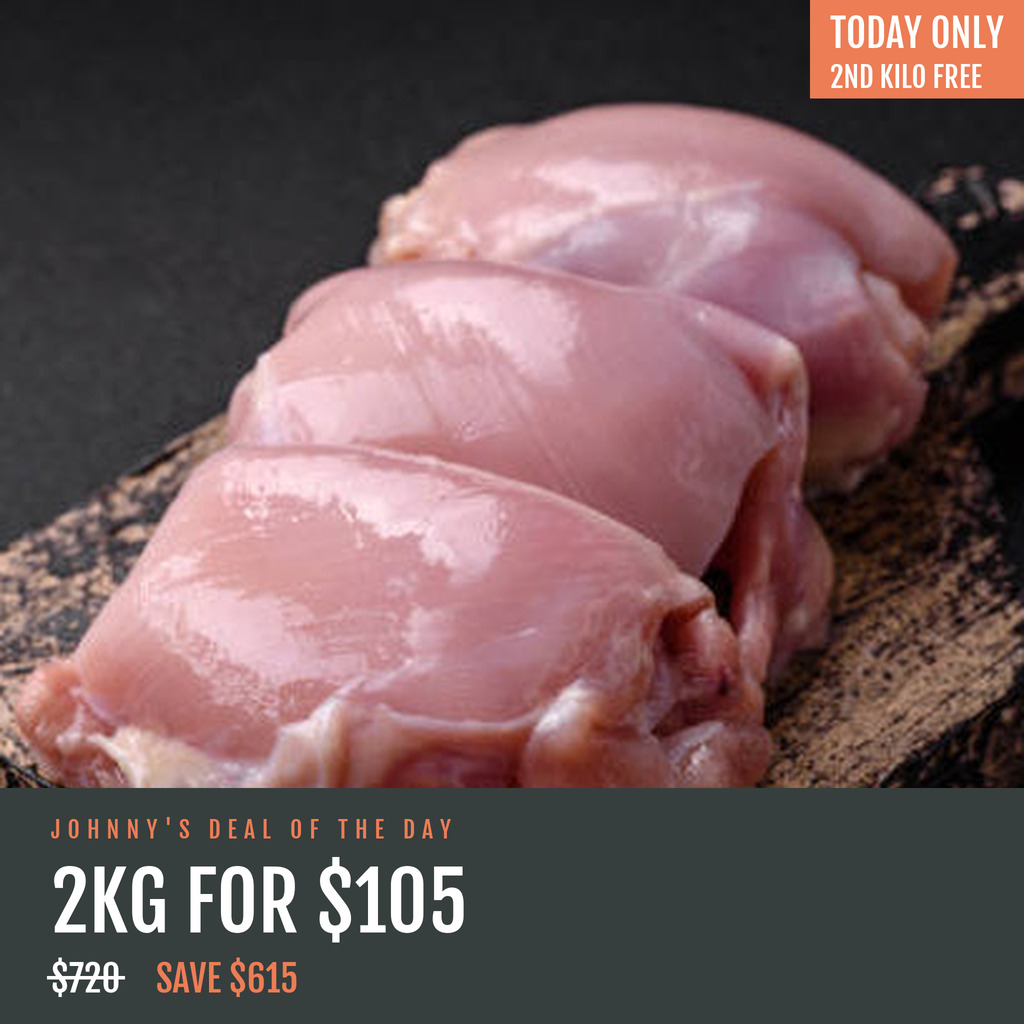
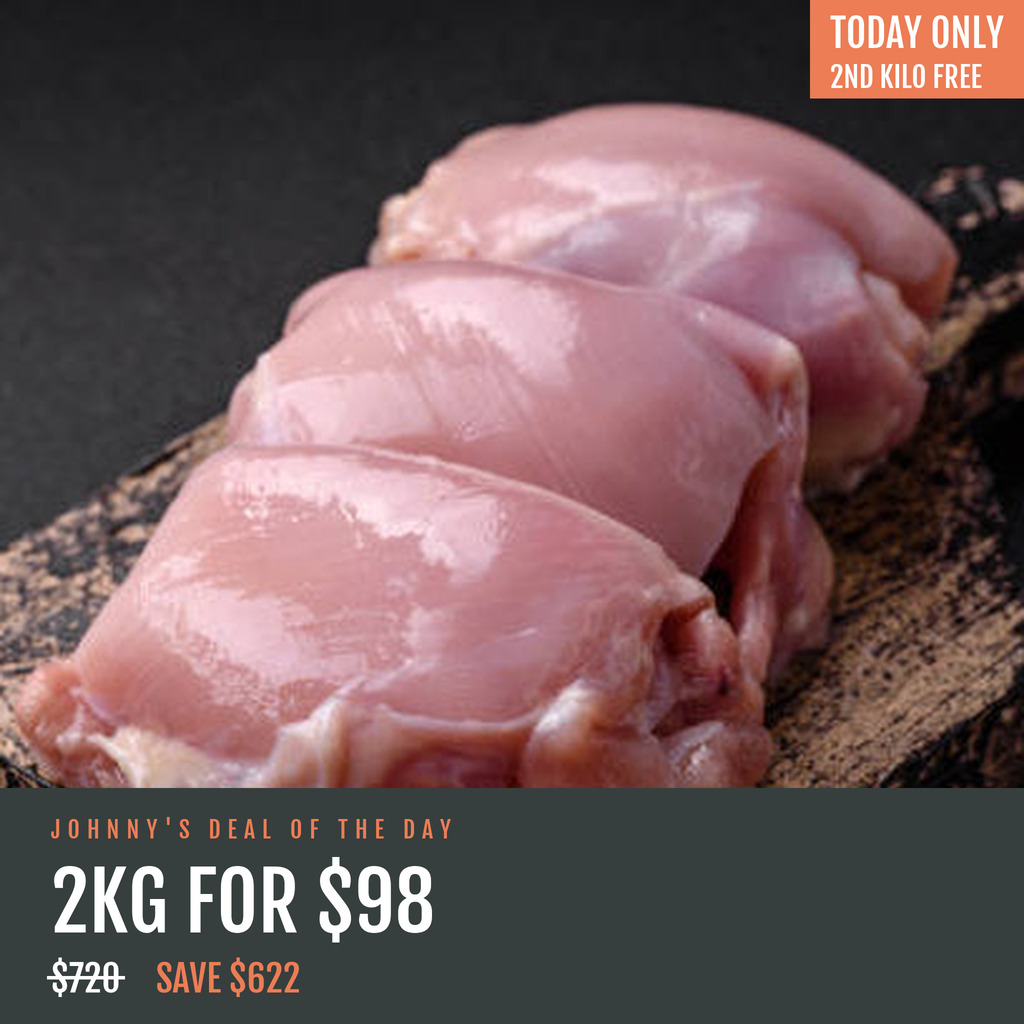
Update: David's 28 Aug review actioned
Price and spec corrections applied on the picanha, salmon ladder, Weekly
Essentials and chicken thighs. Seven ribeye and striploin slots flagged
pending replacement per his Slack note.

Changed region(s): [[0.3438, 0.8438, 0.4688, 0.9062], [0.25, 0.9375, 0.3125, 0.9688]]

diff --git a/steak-king/johnnys-deal-planner.html b/steak-king/johnnys-deal-planner.html
@@ -445,31 +445,33 @@ const PLAN = {
     ],
     days: {
       '2026-09-01':{
-        id:'sep-picanha-open', title:'The Whole Picanha for $740', mech:'Price Drop · Single SKU', tag:'proven',
+        id:'sep-picanha-open', title:'The Whole Picanha, 2.1kg for $948', mech:'Price Drop · Single SKU', tag:'proven',
         img:IMG('files/M9_Picanhas.png'),
-        price:'$740', vs:'Chilled Wagyu M8-9 Rump Cap ~2kg · RRP $2,256 · 67% off', margin:'52% margin',
-        lines:[['Day target','$135,935'],['Stock','296 units.']],
+        price:'$948', vs:'Chilled Wagyu M8-9 Rump Cap 2.1kg · RRP $2,256 · 57% off', margin:'39% margin',
+        lines:[['Day target','$135,935'],['Stock','295 units.'],['From David','28 Aug: 2.1kg at $948.']],
+        flag:'David set this on 28 Aug and he was right to. This SKU\'s unit cost moved from $355 to $580 between the 27th and the 28th, so the $740 I had here was a 22% margin, not 52%. At $948 it is 39%, still under the 45% floor, which would need $1,055. His call, but worth putting back to him.',
         why:'Day one off the back of a $2.59m Emporium. The June read is the warning: the six days after that sale ran $66,215 a day with no deal engine, 29% below its own BAU, while the six after July ran $92,164 with deals on. So the month opens on the highest-confidence single-SKU deal in the library. Picanha did 4.4x on 22 Aug, it needs no explaining, and one item at one price is the right ask of a list that has just spent.',
-        build:{desc:{hook:"TODAY ONLY: A WHOLE WAGYU PICANHA, 2KG, FOR $740",
-          sub:"Normally $2,256. That is 67% off. Australian M8-9 wagyu, and the chimichurri is free in the box.",
-          get:["One whole rump cap, 1.9 to 2.1kg, fat cap left on",
+        build:{desc:{hook:"TODAY ONLY: A WHOLE WAGYU PICANHA, 2.1KG, FOR $948",
+          sub:"Normally $2,256. That is 57% off. Australian M8-9 wagyu, and the chimichurri is free in the box.",
+          get:["One whole rump cap, 2.1kg, fat cap left on",
                "M8-9 Australian wagyu, chilled not frozen",
                "A jar of chimichurri, free",
                "Serves 6 to 8",
-               "Worth $2,256 at RRP. You keep $1,516."],
+               "Worth $2,256 at RRP. You keep $1,308."],
           noteTitle:"Johnny on the picanha",
           note:["I have been buying picanha for thirty years and it is still the cut I would take home if I could only take one.",
                 "It is the cap off the top of the rump, and it comes with a fat cap that most butchers trim off and throw away. Do not let them. That fat is the whole point. It melts down through the meat while it cooks and seasons the thing for you.",
-                "M8-9 is about as marbled as picanha gets before it stops being dinner and starts being a dessert. I buy it by the container, straight from the producer, nobody in between. That is the only reason a $2,256 cut can sit on the site at $740.",
+                "M8-9 is about as marbled as picanha gets before it stops being dinner and starts being a dessert. I buy it by the container, straight from the producer, nobody in between. That is the only reason a $2,256 cut can sit on the site at $948.",
                 "Score the fat in a diamond. Salt it like you mean it. Fat side down first, then turn it. Carve across the grain, never with it, and let it rest before you do."],
           close:"No code needed. Ends midnight, then it is back to $2,256. Free delivery over $1,000, and order before 1:30pm for tomorrow."},
-          source:'Chilled Wagyu M8-9 Rump Cap', banner:["67% OFF the Whole M8-9 Picanha"], clone:'Whole Wagyu M8-9 Picanha ~2kg — $740 Today Only', price:'$740', compare:'$2,256'}
+          source:'Chilled Wagyu M8-9 Rump Cap', banner:["57% OFF the Whole 2.1kg Picanha"], clone:'Whole Wagyu M8-9 Picanha 2.1kg — $948 Today Only', price:'$948', compare:'$2,256'}
       },
       '2026-09-02':{
         id:'sep-angus-ribeye-3kg', title:'Buy 2kg of Angus Ribeye, Get the Third Kilo Free', mech:'Buy 2, Get 1 Free', tag:'proven',
         img:IMG('files/shutterstock_2594441313_1_cb96eb05-edbe-44c6-8180-3302b5e82c48.jpg'),
         price:'3kg for $698', vs:'Chilled Black Angus M1-2 Ribeye 1kg · RRP $2,235 · 68% off', margin:'52% margin',
         lines:[['Day target','$124,088'],['Stock','3,787 units. Deepest stock of any deal this month.'],['Mechanic maths','2kg at $349/kg = $698, third kilo free. Confirm $349 still sits at or under the everyday price on the day.']],
+        flag:'PENDING REPLACEMENT. Not commented on directly, but David's Slack note on 28 Aug is broader than his card comments: \"I'd like to move away from using ribeye / striploin. Especially wagyu.\" That takes this one out too.',
         why:'The highest multiple any single-cut deal has produced (12.9x on 18 Aug at $948). The margin rule reprices it to $698, which is the point of the rule: at $948 it was running a 63% margin, and that is money left on the table when the job is filling a soft week. Cost is $111 a kilo, so this is the deepest headline available on a cut the list already knows.',
         build:{desc:{hook:"BUY 2KG OF ANGUS RIBEYE, GET THE THIRD KILO FREE",
           sub:"3kg for $698. Normally $2,235. That is 68% off.",
@@ -491,7 +493,7 @@ const PLAN = {
         id:'sep-freezer-run', title:'The Freezer Run — 4kg for $328', mech:'Fixed Bundle · Affinity', tag:'new',
         img:IMG('files/RSAngusMince.png'),
         price:'4kg for $328', vs:'Mince + thighs + supreme + tenders · RRP $1,145 · 71% off', margin:'52% margin',
-        lines:[['Day target','$118,476'],['Stock','333 sets. Tenders are the constraint.']],
+        lines:[['Day target','$118,476'],['Stock','322 sets. Tenders are the constraint.'],['David asked about cost','He read cost as $90/kg, which would make 4kg cost $360 and lose money at $328. That $90 is the mince alone. Live unit costs are mince $90, thighs $25, supreme $24, tenders $18, so the box costs $157 and $328 is a 52% margin. Flagged back rather than repriced, since he owns the cost data.']],
         why:'Thursday is the only genuinely soft weekday in the current data (0.88x against a flat week). Entry price and low consideration is what converts a soft day. It is also the one bundle built entirely from measured basket behaviour: mince pairs with chicken supreme at 2.77x chance, with tenders at 2.31x and with thighs at 1.87x, and thighs pair with tenders at 2.70x. And it is the acquisition slot. The $348 Weekday Trio had 29% first-time buyers, the highest of any deal we have run.',
         build:{desc:{hook:"4KG OF FREEZER FOOD FOR JUST $328",
           sub:"Normally $1,145. That is 71% off. Four of our best sellers in one box.",
@@ -549,32 +551,32 @@ const PLAN = {
           source:'Chilled Rangers Station Black Angus M1-2 Tomahawk 1.2kg', banner:['52% OFF Two Angus M1-2 Tomahawks'], clone:'Two Black Angus M1-2 Tomahawks, 2.4kg — $790 Today Only', price:'$790', compare:'$1,668'}
       },
       '2026-09-06':{
-        id:'sep-btc-salmon', title:'Beat the Clock — 5kg of Norwegian Salmon, $548 Now, $648 at 1pm, $748 from 5pm', mech:'Rising Price', tag:'new',
+        id:'sep-btc-salmon', title:'Beat the Clock — 5kg of Norwegian Salmon, $498 Now, $548 at 1pm, $598 from 5pm', mech:'Rising Price', tag:'new',
         img:IMG('files/Mix_image_WhatsAppImage2026-08-25at15.41.44_1_....png'),
-        price:'from $548', tiers:[['$548','9:00am'],['$648','1:00pm'],['$748','5:00pm']],
-        vs:'Frozen Norwegian Salmon Pieces 5kg box · RRP $2,998 · 81% off at open', margin:'45% / 54% / 60% margin',
+        price:'from $498', tiers:[['$498','9:00am'],['$548','1:00pm'],['$598','5:00pm']],
+        vs:'Frozen Norwegian Salmon Pieces 5kg box · RRP $2,998 · 83% off at open', margin:'40% / 45% / 50% margin',
         lines:[['Day target','$100,393'],['Stock','11,596 units. Nothing else this month is this deep.'],
-               ['Margin exception','45% at the opening tier, back over 50% from 1pm. Approved for David\'s suggested SKUs.'],
+               ['Margin exception','40% at open, 45% at 1pm, 50% at 5pm. David set this ladder on 28 Aug; the opening tier is below the 45% exception.'],
                ['From David\'s list','Norwegian salmon pieces, one of his fourteen.'],
                ['Distribution','WhatsApp broadcast 9am + social.']],
-        why:'David asked for Norwegian salmon pieces and this is the only way it works. The SKU already lives at $598 against a $2,998 RRP, so a flat deal has almost no room: at the 52% floor it would price at $625, which is above its own shelf price. At 45% it opens at $548, and the rising price supplies the urgency the discount cannot. It also rotates Beat the Clock off beef for the first time, which is exactly what Hani asked for when he made it a weekly fixture, and it swaps out the USDA Choice ladder that was carrying the weakest headline of the three runs at 55%.',
+        why:'David asked for Norwegian salmon pieces and this is the only way it works. The SKU already lives at $598 against a $2,998 RRP, so a flat deal has almost no room: at the 52% floor it would price at $625, which is above its own shelf price. David has taken the opening tier to $498, which is a 40% margin, below even the 45% exception. The rising price supplies the urgency the discount cannot. It also rotates Beat the Clock off beef for the first time, which is exactly what Hani asked for when he made it a weekly fixture, and it swaps out the USDA Choice ladder that was carrying the weakest headline of the three runs at 55%.',
         flag:'Two to check. The $2,998 compare-at on a 5kg box is a 5x ratio, well above the 2x convention, so the 81% claim rests entirely on David\'s own anchor being right. And confirm salmon is not the September Emporium hero before this ships. It was the second hero in August.',
-        build:{desc:{hook:"BEAT THE CLOCK: 5KG OF NORWEGIAN SALMON FROM $548",
-          sub:"The price goes up twice today. Normally $2,998, so it opens at 81% off.",
-          how:["$548 from 9am.",
-               "$648 from 1pm.",
-               "$748 from 5pm until midnight.",
+        build:{desc:{hook:"BEAT THE CLOCK: 5KG OF NORWEGIAN SALMON FROM $498",
+          sub:"The price goes up twice today. Normally $2,998, so it opens at 83% off.",
+          how:["$498 from 9am.",
+               "$548 from 1pm.",
+               "$598 from 5pm until midnight.",
                "The price only ever goes up. Whatever it says when you check out is what you pay."],
           get:["A 5kg box of Norwegian salmon pieces, skin on",
                "Portioned and frozen, so you take out what you need",
-               "Buy at 9am and you keep $2,450. By 5pm that is $2,250."],
+               "Buy at 9am and you keep $2,500. By 5pm that is $2,400."],
           noteTitle:"Johnny on buying salmon by the box",
           note:["Five kilos sounds like a lot until you realise how often you reach for it. These are pieces rather than whole fillets, which is the practical way to buy salmon: pull out two for a Tuesday, six when people come over, and there is no whole side sitting in the fridge quietly going off.",
                 "Norwegian salmon is the benchmark for a reason. Cold water, slow growth, and a fat line through the flesh that keeps it from drying out even if you overcook it slightly, which most people do.",
                 "Straight from frozen into a hot pan skin side down, press it flat for the first minute, and leave it alone. Or cure a few pieces with salt, sugar and dill and you have your own gravlax by Thursday.",
-                "The clock is the point today. Every window you let pass costs you a hundred dollars."],
+                "The clock is the point today. Every window you let pass costs you fifty dollars."],
           close:"Back to $2,998 at midnight, whatever time you buy."},
-          source:'Frozen Norwegian Salmon Pieces - 1kg/5kg (5kg Box)', banner:['BEAT THE CLOCK to save up to 81% on Salmon'], clone:'5kg of Norwegian Salmon Pieces — the Price Rises at 1pm and Again at 5pm', price:'$548 → $648 → $748', compare:'$2,998'}
+          source:'Frozen Norwegian Salmon Pieces - 1kg/5kg (5kg Box)', banner:["BEAT THE CLOCK to save up to 83% on Salmon"], clone:'5kg of Norwegian Salmon Pieces — the Price Rises at 1pm and Again at 5pm', price:'$498 → $548 → $598', compare:'$2,998'}
       },
       '2026-09-07':{
         id:'sep-wagyu-ribeye-3kg', title:'3kg of Wagyu M4-5 Ribeye for $1,325', mech:'Quantity Flash', tag:'proven',
@@ -582,7 +584,7 @@ const PLAN = {
         price:'3kg for $1,325', vs:'Rangers Station Wagyu M4-5 Ribeye 1kg · RRP $3,981 · 66% off', margin:'52% margin',
         lines:[['Day target','$148,407 — highest of the block'],['Stock','277 sets.']],
         why:'The direct replication of the best deal the programme has ever run ($34,860 on 7 Aug). Cloned off the 1kg listing rather than the 3kg one, because the 1kg carries a $1,327 compare-at against the 3kg listing\'s $896 a kilo. Same meat, same price, a far bigger headline. Highest target day of the block gets the biggest deal, and it prices above the wall so free delivery folds into the offer.',
-        flag:'Two live listings of this cut carry different costs and compare-at figures ($247 / $976 on the plain 1kg, $212 / $1,327 on the Rangers Station buy-2-get-1 listing). $1,325 versus $1,140 for the same 3kg hangs on which is right. Confirm with David before cloning.',
+        flag:'PENDING REPLACEMENT. David, 28 Aug: \"Let's not do any hero products. Please replace with one of the list products like Angus M2-3 rump cap.\" The M2-3 rump cap has zero stock on its 2kg and 2.3kg variants and 13 units on a draft 4kg, so it cannot carry the block's biggest day as things stand. Two live listings of this cut carry different costs and compare-at figures ($247 / $976 on the plain 1kg, $212 / $1,327 on the Rangers Station buy-2-get-1 listing). $1,325 versus $1,140 for the same 3kg hangs on which is right. Confirm with David before cloning.',
         build:{desc:{hook:"3KG OF WAGYU M4-5 RIBEYE FOR $1,325",
           sub:"Normally $3,981. That is 66% off, and the biggest single saving we will put up all month.",
           get:["Three separate 1kg Rangers Station wagyu M4-5 ribeyes",
@@ -597,36 +599,36 @@ const PLAN = {
           source:'Chilled Rangers Station Wagyu M4-5 Ribeye 1kg', banner:["66% OFF 3kg of Wagyu M4-5 Ribeye"], clone:'3kg of Rangers Station Wagyu M4-5 Ribeye — $1,325 Today Only', price:'$1,325', compare:'$3,981'}
       },
       '2026-09-11':{
-        id:'sep-weekly-essentials', title:"The Weekly Essentials Box — 4.5kg for $527", mech:'Fixed Bundle · Affinity', tag:'new',
+        id:'sep-weekly-essentials', title:"The Weekly Essentials Box — 4.1kg for $498", mech:'Fixed Bundle · Affinity', tag:'new',
         img:IMG('files/1115.png'),
-        price:'4.5kg for $527', vs:"Mince + salmon + supreme + burgers + Cumberlands · RRP $1,645 · 67% off", margin:'52% margin',
-        lines:[['Day target','$112,240'],['Stock','155 sets. Cumberlands are the constraint.'],
+        price:'4.1kg for $498', vs:"Mince + salmon + supreme + burgers + Cumberlands · RRP $1,645 · 69% off", margin:'49% margin',
+        lines:[['Day target','$112,240'],['Stock','155 sets. Cumberlands are the constraint.'],['From David','28 Aug: corrected the weight to 4.1kg and set $498. He is right on the weight, 1 + 1 + 1 + 0.6 + 0.5.'],
                ['From David\'s list','Carries three of his fourteen at once: Norwegian salmon pieces, chicken supreme, and his family-bundle range.'],
                ['Build note','Assemble through the bundle builder from the five component SKUs, not the pre-made Weekly Essentials Set. Same contents, but the components sum to a $1,645 RRP against the bundle SKU\'s $1,196 compare-at, and it clears the margin floor where the pre-made SKU does not.']],
-        why:'David asked for his family bundles in the mix and for Norwegian salmon pieces. This does both, and it turns out his Weekly Essentials Set is almost exactly the cluster the basket data already identified: mince pairs with Cumberlands at 5.80x chance, with wagyu burgers at 5.27x, with salmon pieces at 4.15x and with chicken supreme at 2.77x. He built the right box. It has 147 units and effectively no sales in 60 days, which says the problem was never the price, it was that nobody ever saw it. Rebuilt through the bundle builder it goes out at $527 on a 52% margin and a deeper headline than his own SKU can show. It supersedes the Weekend Grill Box, which was three of these five items.',
+        why:'David asked for his family bundles in the mix and for Norwegian salmon pieces. This does both, and it turns out his Weekly Essentials Set is almost exactly the cluster the basket data already identified: mince pairs with Cumberlands at 5.80x chance, with wagyu burgers at 5.27x, with salmon pieces at 4.15x and with chicken supreme at 2.77x. He built the right box. It has 147 units and effectively no sales in 60 days, which says the problem was never the price, it was that nobody ever saw it. Rebuilt through the bundle builder it goes out at $498 on a 49% margin and a deeper headline than his own SKU can show. It supersedes the Weekend Grill Box, which was three of these five items.',
         flag:'The pre-made Weekly Essentials Set SKU sits at $498 against a $1,196 compare-at, which is a 45% margin and under the floor. That is why this is assembled from components instead. If David would rather move the pre-made SKU, it needs his sign-off on 45%.',
-        build:{desc:{hook:"THE WEEKLY ESSENTIALS BOX, 4.5KG, FOR $527",
-          sub:"Normally $1,645. That is 67% off. Five things, one box, a full week of dinners.",
+        build:{desc:{hook:"THE WEEKLY ESSENTIALS BOX, 4.1KG, FOR $498",
+          sub:"Normally $1,645. That is 69% off. Five things, one box, a full week of dinners.",
           get:["Angus mince, 1kg",
                "Norwegian salmon pieces, skin on, 1kg",
                "Chicken supreme, 1kg, bone in and skin on",
                "Wagyu burgers, 600g, four patties",
                "Cumberland sausages, 500g",
-               "4.5kg in total, around $117 a kilo",
-               "Worth $1,645 at RRP. You keep $1,118."],
+               "4.1kg in total, around $121 a kilo",
+               "Worth $1,645 at RRP. You keep $1,147."],
           noteTitle:"Johnny on this box",
           note:["Five things, and between them they cover every night of the week without you having to think about a single one of them.",
                 "Salmon on Monday because you always mean to eat more fish. Mince on Tuesday for the bolognese that gets eaten twice. Burgers on the night nobody can be bothered. The supreme roasts on Sunday, bone in and skin on so it comes out crisp and stays juicy. Cumberlands for breakfast the morning after.",
                 "I did not pick these five out of the air. They are the things our customers already buy in the same order, more often than any other combination on the site. All I have done is put them in one box and take the maths off you.",
-                "It is 4.5kg for $527, which works out at about a hundred and seventeen dollars a kilo. Try feeding four people for a week on that anywhere else in Hong Kong."],
+                "It is 4.1kg for $498, which works out at about a hundred and twenty dollars a kilo. Try feeding four people for a week on that anywhere else in Hong Kong."],
           close:"Today only. Ends midnight."},
-          source:'Bundle builder: Angus Mince 1kg + Norwegian Salmon Skin-On Pieces 1kg + Chicken Supreme 1kg + Wagyu Burgers 600g + Cumberland Sausages 500g', banner:['67% OFF the Weekly Essentials Box'], clone:'The Weekly Essentials Box — 5 Items, 4.5kg · $527 Today Only', price:'$527', compare:'$1,645'}
+          source:'Bundle builder: Angus Mince 1kg + Norwegian Salmon Skin-On Pieces 1kg + Chicken Supreme 1kg + Wagyu Burgers 600g + Cumberland Sausages 500g', banner:["69% OFF the Weekly Essentials Box"], clone:'The Weekly Essentials Box — 5 Items, 4.1kg · $498 Today Only', price:'$498', compare:'$1,645'}
       },
       '2026-09-12':{
         id:'sep-sausage-flight', title:'The Wagyu Sausage Flight — 1.5kg for $208', mech:'Fixed Bundle · Range Exposure', tag:'new',
         img:IMG('files/PlainWagyuBeefSausageBrand_d382b299-d49b-4ad4-95c1-d3f1880ae512.jpg'),
         price:'1.5kg for $208', vs:'3 x Rangers Station Wagyu Sausages 500g · RRP $1,200 · 82% off', margin:'52% margin',
-        lines:[['Day target','$106,628'],['Stock','61 sets. Caramelised onion is the constraint — needs a restock to 150.']],
+        lines:[['Day target','$106,628'],['From David','28 Aug: he will confirm which sausages closer to the date, so contents are provisional.'],['Stock','61 sets. Caramelised onion is the constraint — needs a restock to 150.']],
         why:'Low-ticket test one, and the biggest range-exposure play of the month. We sell three flavours of Rangers Station wagyu sausage at $170 a pack and almost nobody knows they exist. Fixed three-pack rather than a pick-any-three, so it needs no picker. At 82% off it carries the second deepest headline of the month and it puts a genuinely premium product in front of people at a price they will try on impulse.',
         flag:'Two anchors exist for this. The three individual listings each carry a $400 compare-at, giving $1,200. There is also a Rangers Station Sausage Sampler 1.5kg SKU anchored at $510. The two contradict each other and David needs to settle which is the real RRP before this is built.',
         build:{desc:{hook:"THREE KINDS OF WAGYU SAUSAGE, 1.5KG, FOR $208",
@@ -674,7 +676,7 @@ const PLAN = {
         vs:'Rangers Station Black Angus M3-4 Ribeye 1kg · RRP $1,160 · 61% off at open', margin:'53% / 57% / 61% margin',
         lines:[['Day target','$148,406 — highest of the block'],['Stock','817 units.'],['Distribution','WhatsApp broadcast 9am + one email 9am + social. This is the variable that was missing in August.']],
         why:'Beat the Clock run two, and the one that gets the full send behind it. Dropped from 2kg to 1kg on Hani\'s call: a smaller unit means the ladder steps are $50 rather than $100, the entry price is $448 rather than $884, and far more of the list can act on the opening window. Both August runs are void as tests anyway. They landed on days the deals page was taking between 3 and 11 sessions, and neither opened below the cut\'s own best flat price. This opens at the margin floor, which is the lowest that cut can ever be sold, and every step up earns margin back rather than giving it away.',
-        flag:'Two things. Confirm the ladder against the creative, not the PDP copy — the 21 Aug run had the PDP saying midday and the campaign saying 1pm, and it had to be cancelled and rescheduled an hour before it fired. And the source photo on this listing carries a burned-in "2 PIECES FREE CHICKEN TENDERS" roundel from an earlier promo. Clean it deterministically with clean_patch.py into assets/deal-sources/ before the badge is built. Never ask an image model to remove it.',
+        flag:'PENDING REPLACEMENT. David, 28 Aug: \"I'd rather not do so many ribeye. Please replace.\" Two things. Confirm the ladder against the creative, not the PDP copy — the 21 Aug run had the PDP saying midday and the campaign saying 1pm, and it had to be cancelled and rescheduled an hour before it fired. And the source photo on this listing carries a burned-in "2 PIECES FREE CHICKEN TENDERS" roundel from an earlier promo. Clean it deterministically with clean_patch.py into assets/deal-sources/ before the badge is built. Never ask an image model to remove it.',
         build:{desc:{hook:"BEAT THE CLOCK: 1KG OF ANGUS RIBEYE FROM $448",
           sub:"The price goes up twice today. Normally $1,160, so it opens at 61% off.",
           how:["$448 from 9am.",
@@ -695,6 +697,7 @@ const PLAN = {
         img:IMG('files/WagyuM4-5Tenderloin_Chateaubriand.webp'),
         price:'2.4kg for $788', vs:'Chilled Wagyu M4-5 Tenderloin 800g · RRP $2,664 · 70% off', margin:'52% margin',
         lines:[['Day target','$135,935'],['Stock','283 sets.'],['Mechanic maths','Two at $394, third free. Same total as the half-price version, stronger mechanic. Confirm $394 sits at or under the everyday price on the day.']],
+        flag:'PENDING REPLACEMENT. David, 28 Aug: \"Let's not do this twice. Please replace.\" Chateaubriand stays on the 4th.',
         why:'Same cut as 4 Sept, eleven days apart, but a bigger lot and a real giveaway rather than a cheaper price. Hani\'s call to move it from buy-two-get-third-half-price to buy-two-get-one-free: identical total at $788, identical margin, and a mechanic that reads far harder on a banner. 70% is the deepest headline available on anything chilled and premium.',
         build:{desc:{hook:"BUY TWO WAGYU CHATEAUBRIANDS, GET THE THIRD FREE",
           sub:"2.4kg for $788. Normally $2,664. That is 70% off.",
@@ -715,7 +718,7 @@ const PLAN = {
         id:'sep-butchers-choice', title:"Butcher's Choice — 4kg, Johnny Picks, $849", mech:"Butcher's Choice Box", tag:'new',
         img:IMG('files/shutterstock_2594441313_1_cb96eb05-edbe-44c6-8180-3302b5e82c48.jpg'),
         price:'4kg for $849', vs:'Contents vary · RRP ~$2,200 · ~61% off', margin:'52% margin at a $408 cost cap',
-        lines:[['Day target','$124,088'],['Fill from David\'s list first','M9+ beef cheeks, whole chickens and the Frenched lamb rack once it restocks. None of them can headline a day at 45%, but they are exactly what a butcher\'s box is for, and it puts three more of his fourteen into the month without spending a slot.'],['Build rule','Total unit cost must not exceed $408. Worked example: 2 x Angus M1-2 Ribeye 1kg + 1 x M1-2 Striploin 1kg + 1 x Chicken Supreme 1kg = $393 cost, $2,191 RRP, 61% off, 54% margin.']],
+        lines:[['Day target','$124,088'],['From David','28 Aug: contents confirmed closer to the date, which is how this box works anyway.'],['Fill from David\'s list first','M9+ beef cheeks, whole chickens and the Frenched lamb rack once it restocks. None of them can headline a day at 45%, but they are exactly what a butcher\'s box is for, and it puts three more of his fourteen into the month without spending a slot.'],['Build rule','Total unit cost must not exceed $408. Worked example: 2 x Angus M1-2 Ribeye 1kg + 1 x M1-2 Striploin 1kg + 1 x Chicken Supreme 1kg = $393 cost, $2,191 RRP, 61% off, 54% margin.']],
         why:'The only deal in the month that cannot be broken by a stock-out, because the contents flex to whatever is in the cold room. It is also the only mechanic that clears overhang without us having to pick a loser SKU and put it in a window. Moved up from the 19th to make room for the third Beat the Clock run. At $849 it is the right weight for a $124k Wednesday, and a mystery box is exactly the kind of thing that earns a mid-week click.',
         flag:'Never publish the contents in advance and never publish a unit count. The price is known, the contents are the surprise. The box must state a guaranteed floor (at least 2kg of chilled premium beef) so nobody feels they got the offcuts.',
         build:{desc:{hook:"BUTCHER'S CHOICE: 4KG OF MEAT FOR $849. JOHNNY PICKS.",
@@ -737,12 +740,12 @@ const PLAN = {
       '2026-09-17':{
         id:'sep-thighs-b1g1', title:'Buy 1kg of Chicken Thighs, Get the Second Kilo Free', mech:'Buy 1, Get 1 Free', tag:'new',
         img:IMG('files/ChickenThigh.jpg'),
-        price:'2kg for $105', vs:'Barn Raised Chicken Thighs 1kg · RRP $720 · 85% off', margin:'52% margin',
-        lines:[['Day target','$118,476'],['Stock','1,488 sets.'],['Mechanic maths','1kg at $105, second kilo free. Steak King compare-at runs about 2x everyday, so the everyday here should sit near $180 rather than the $98 showing mid-Emporium. Confirm on the day.']],
-        why:'Low-ticket test, cut from 4kg to 2kg on Hani\'s call. Two kilos at $105 is the lowest ticket the programme has ever put up and the deepest percentage in the plan, so it answers the weight question properly: does a cheap, small, easy deal move a soft Thursday as well as an expensive one. Thursday is the only genuinely soft weekday in the current data at 0.88x, and this sits against the 3 Sept box at $328 so the two soft days are matched.',
+        price:'2kg for $98', vs:'Barn Raised Chicken Thighs 1kg · RRP $720 · 86% off', margin:'49% margin',
+        lines:[['Day target','$118,476'],['Stock','1,488 sets.'],['From David','28 Aug: $98 for the 2kg.'],['Mechanic maths','1kg at $98, second kilo free. Steak King compare-at runs about 2x everyday, so the everyday here should sit near $180 rather than the $98 showing mid-Emporium. Confirm on the day.']],
+        why:'Low-ticket test, cut from 4kg to 2kg on Hani\'s call. Two kilos at $98 is the lowest ticket the programme has ever put up and the deepest percentage in the plan, so it answers the weight question properly: does a cheap, small, easy deal move a soft Thursday as well as an expensive one. Thursday is the only genuinely soft weekday in the current data at 0.88x, and this sits against the 3 Sept box at $328 so the two soft days are matched.',
         build:{desc:{hook:"BUY 1KG OF CHICKEN THIGHS, GET THE SECOND KILO FREE",
-          sub:"2kg for $105. Normally $720. That is 85% off, the biggest percentage of the month.",
-          how:["Pay $105 for a kilo of boneless, skinless chicken thighs.",
+          sub:"2kg for $98. Normally $720. That is 86% off, the biggest percentage of the month.",
+          how:["Pay $98 for a kilo of boneless, skinless chicken thighs.",
                "Two kilos turn up. The second one is on us.",
                "No code, no minimum spend."],
           noteTitle:"Johnny on thighs",
@@ -750,7 +753,7 @@ const PLAN = {
                 "Two kilos is about eight dinners. Curry on Monday, grilled with lemon on Wednesday, shredded into a salad for lunch, a tray bake on Sunday that more or less cooks itself.",
                 "Split it into bags before it goes in the freezer and you will thank yourself in a fortnight."],
           close:"Today only. Two kilos for the price of one. Ends midnight."},
-          source:'Frozen Barn Raised Chicken Thighs (Boneless & Skinless) 1kg', banner:["BUY 1KG GET 1KG FREE on Chicken Thighs"], clone:'Buy 1kg Chicken Thighs, Get the Second Kilo Free — 2kg $105', price:'$105', compare:'$720'}
+          source:'Frozen Barn Raised Chicken Thighs (Boneless & Skinless) 1kg', banner:["BUY 1KG GET 1KG FREE on Chicken Thighs"], clone:'Buy 1kg Chicken Thighs, Get the Second Kilo Free — 2kg $98', price:'$98', compare:'$720'}
       },
       '2026-09-18':{
         id:'sep-hangers', title:'Buy One Whole Hanger, Get the Second Half Price', mech:'Buy 1, Get 2nd 50%',
@@ -780,6 +783,7 @@ const PLAN = {
         price:'from $740', tiers:[['$740','9:00am'],['$840','1:00pm'],['$940','5:00pm']],
         vs:'Chilled Wagyu M8-9 Rump Cap ~2kg · RRP $2,256 · 67% off at open', margin:'52% / 58% / 62% margin',
         lines:[['Day target','$106,628'],['Stock','296 units.'],['Distribution','WhatsApp broadcast 9am + social. Full BAU day, no longer inside the sale.']],
+        flag:'PENDING REPLACEMENT. David, 28 Aug: \"Let's pick another product. M4-5 rump or lamb rack maybe.\" Note the margins shown here are also stale: this SKU's unit cost moved to $580, so $740 is a 22% margin, not 52%.',
         why:'Beat the Clock run three, rescued off the 26th when the Emporium claimed 22 to 30. Landing it here turns it into the sharpest experiment in the month: the picanha ran flat at $740 on 1 September, and this opens at exactly $740 and climbs. Same cut, same opening price, one variable. That is a cleaner read on whether the ladder earns its keep than anything we could have designed on purpose, and it replaces the single-SKU control that lost its slot.',
         build:{desc:{hook:"BEAT THE CLOCK: THE WHOLE PICANHA FROM $740",
           sub:"The price goes up twice today. Normally $2,256, so it opens at 67% off.",
@@ -803,7 +807,7 @@ const PLAN = {
         price:'3kg for $1,325', vs:'Rangers Station Wagyu M4-5 Ribeye 1kg · RRP $3,981 · 66% off', margin:'52% margin',
         lines:[['Day target','$100,393'],['Stock','277 sets.'],['Note','Runs again tomorrow. Same price, same deal, second day.']],
         why:'The only held-over deal we have ever run gave the two best days of the programme, and day two beat day one (+38.9% against +28.4%). That happened by accident when the wagyu ribeye ran 7 and 8 August. This is the deliberate replication, and it puts day two on the highest-target day of the block where the compounding is worth most.',
-        flag:'Third run of this cut in the month after 7 Sept. Watch for decay. If 7 Sept comes in soft, substitute Angus M3-4 Ribeye 3kg at $1,325 (RRP $3,480, 61% off, 52% margin) and keep the two-day structure.',
+        flag:'PENDING REPLACEMENT. Same cut as the 7th and the 21st, and covered by David's ribeye and striploin exclusion. Third run of this cut in the month after 7 Sept. Watch for decay. If 7 Sept comes in soft, substitute Angus M3-4 Ribeye 3kg at $1,325 (RRP $3,480, 61% off, 52% margin) and keep the two-day structure.',
         build:{desc:{hook:"3KG OF WAGYU M4-5 RIBEYE FOR $1,325. TWO DAYS ONLY.",
           sub:"Normally $3,981. That is 66% off. Runs today and tomorrow, then it is finished.",
           get:["Three separate 1kg Rangers Station wagyu M4-5 ribeyes",
@@ -821,6 +825,7 @@ const PLAN = {
         img:IMG('files/2_a47273c2-2039-4041-9e50-021041d56e64.png'),
         price:'3kg for $1,325', vs:'Rangers Station Wagyu M4-5 Ribeye 1kg · RRP $3,981 · 66% off', margin:'52% margin',
         lines:[['Day target','$148,406 — joint highest of the block'],['Note','Day two of the hold. Same price, no extension.']],
+        flag:'PENDING REPLACEMENT. David, 28 Aug: \"Please replace.\"',
         why:'Day two of the hold, landing on the block\'s joint-highest target day and the day before the Emporium launches. Nothing here competes with the Emporium heroes, and the deadline is real because the sale starts tomorrow.',
         build:{desc:{hook:"LAST DAY: 3KG OF WAGYU M4-5 RIBEYE FOR $1,325",
           sub:"Normally $3,981. That is 66% off. Second and final day, and it does not run again.",
